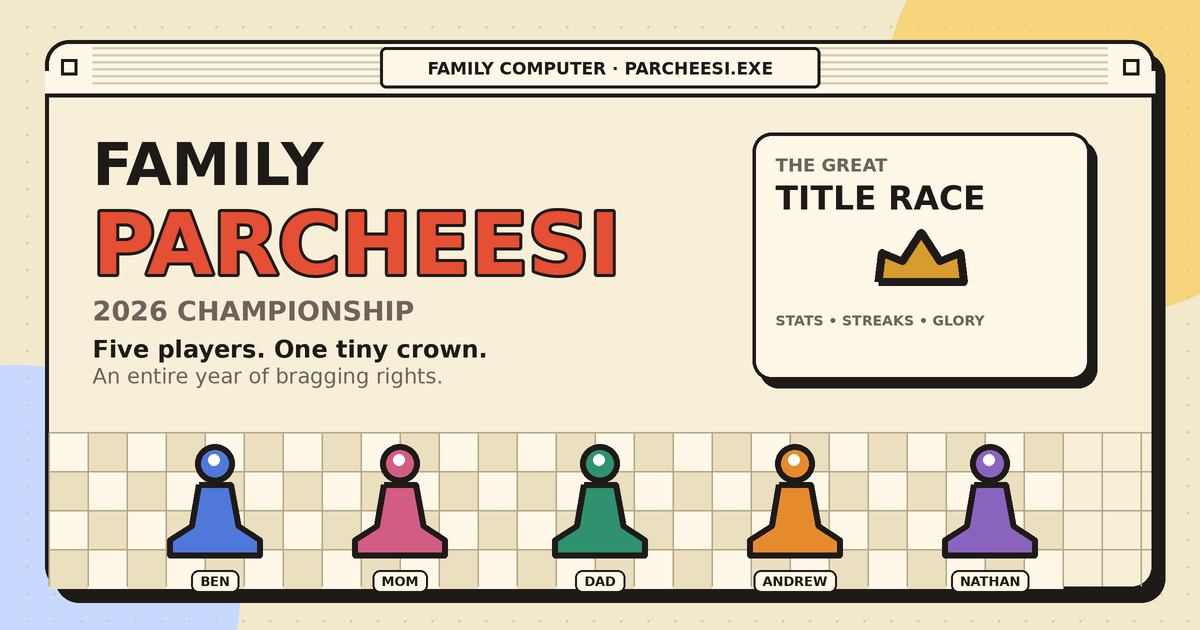
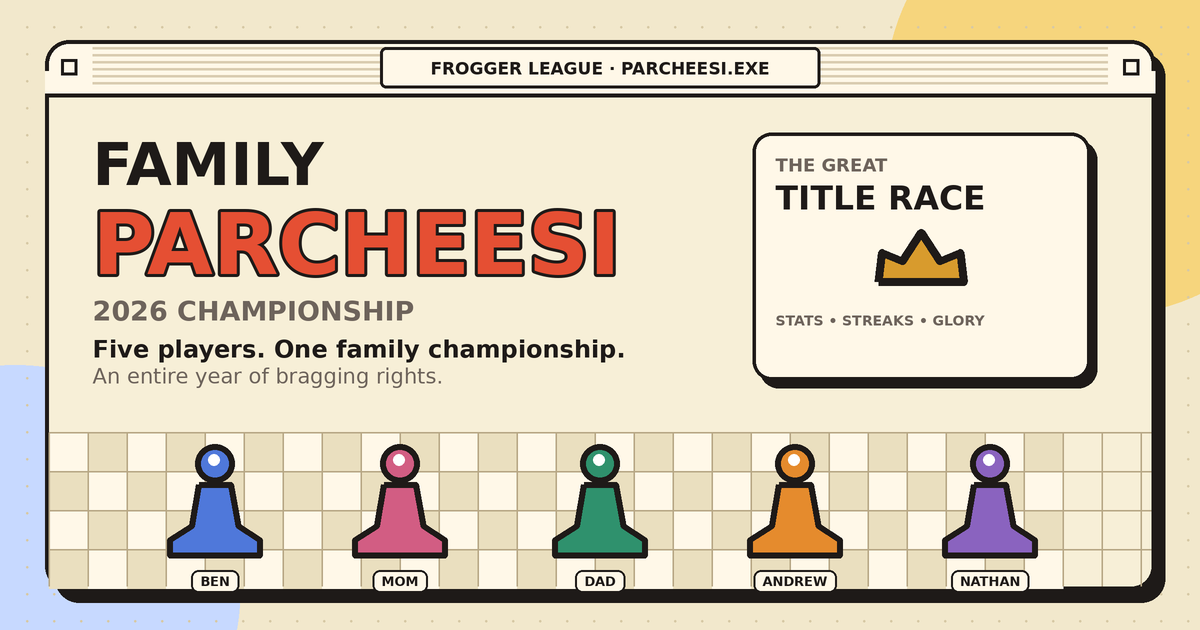
Refine championship voice and add Frogger League identity

Changed region(s): [[0.3392, 0.0905, 0.6475, 0.1206], [0.2775, 0.5429, 0.5242, 0.573]]

diff --git a/index.html b/index.html
@@ -20,7 +20,7 @@
   <meta property="og:locale" content="en_US">
   <meta property="og:url" content="https://llm-i-am.github.io/fam-parcheesi/">
   <meta property="og:title" content="Family Parcheesi · 2026 Championship">
-  <meta property="og:description" content="Five players. One tiny crown. An entire year of bragging rights.">
+  <meta property="og:description" content="Five players. One family championship. An entire year of bragging rights.">
   <meta property="og:image" content="https://llm-i-am.github.io/fam-parcheesi/assets/og-share.png">
   <meta property="og:image:secure_url" content="https://llm-i-am.github.io/fam-parcheesi/assets/og-share.png">
   <meta property="og:image:type" content="image/png">
@@ -30,7 +30,7 @@
 
   <meta name="twitter:card" content="summary_large_image">
   <meta name="twitter:title" content="Family Parcheesi · 2026 Championship">
-  <meta name="twitter:description" content="Five players. One tiny crown. An entire year of bragging rights.">
+  <meta name="twitter:description" content="Five players. One family championship. An entire year of bragging rights.">
   <meta name="twitter:image" content="https://llm-i-am.github.io/fam-parcheesi/assets/og-share.png">
   <meta name="twitter:image:alt" content="Family Parcheesi 2026 Championship with five colorful game pawns.">
 
@@ -59,14 +59,14 @@
     <header class="hero-window" aria-labelledby="pageTitle">
       <div class="window-bar" aria-hidden="true">
         <span class="window-dot"></span>
-        <span class="window-title">FAMILY COMPUTER · PARCHEESI.EXE</span>
+        <span class="window-title">FROGGER LEAGUE · PARCHEESI.EXE</span>
         <span class="window-dot"></span>
       </div>
 
       <div class="hero-content">
-        <div class="hero-kicker">🐅 2026 FAM PARCHEESI 🐪</div>
-        <h1 id="pageTitle">The family title race,<br><span>beautifully over-serious.</span></h1>
-        <p class="hero-copy">Five players. One tiny crown. An entire year of bragging rights.</p>
+        <div class="hero-kicker">🐸 FROGGER LEAGUE · 2026 SEASON</div>
+        <h1 id="pageTitle">The family title race,<br><span>in all its glory.</span></h1>
+        <p class="hero-copy">Five players. One family championship. An entire year of bragging rights.</p>
 
         <div class="hero-dashboard" aria-live="polite">
           <section class="leader-card" id="leaderCard" aria-label="Current championship leader">
@@ -75,7 +75,7 @@
               <div class="leader-pawn-wrap" aria-hidden="true"><span class="pawn pawn-xl" id="leaderPawn"></span></div>
               <div>
                 <div class="leader-name skeleton-text" id="leaderName">Loading…</div>
-                <div class="leader-detail skeleton-text" id="leaderDetail">Calculating the family drama</div>
+                <div class="leader-detail skeleton-text" id="leaderDetail">Calculating championship drama…</div>
               </div>
             </div>
             <div class="leader-ribbon" id="leaderRibbon">👑 crown status pending</div>
@@ -116,7 +116,7 @@
       <div class="section-heading">
         <div class="eyebrow">PARCHEESI STATS LAB™</div>
         <h2 id="raceTitle">The Great 2026 Parcheesi Race</h2>
-        <p>Watch the season wobble, lurch, and somehow become statistically meaningful.</p>
+        <p>Watch the season twist, turn, and tighten one game at a time.</p>
       </div>
 
       <div class="chart-window retro-panel">
@@ -210,8 +210,8 @@
     <footer class="site-footer">
       <div class="footer-mark" aria-hidden="true"><span class="pawn pawn-mini"></span></div>
       <div>
-        <strong>Family Parcheesi · 2026</strong>
-        <span>Handcrafted for excessive statistical analysis of a perfectly normal board game.</span>
+        <strong>Frogger Family Parcheesi League · 2026</strong>
+        <span>Keeping the official record of every win, streak, comeback, and lead change.</span>
       </div>
     </footer>
   </main>

diff --git a/app.js b/app.js
@@ -230,7 +230,7 @@
     $('#leaderDetail').textContent = leaders.length === 1
       ? `${leaders[0].wins} wins · ${formatPct(leaders[0].winPct)} of games played`
       : `${leaders.length}-way tie · ${formatPct(topPct)}`;
-    $('#leaderRibbon').textContent = leaders.length === 1 ? '👑 currently wearing the tiny crown' : '👑 shared tiny crown situation';
+    $('#leaderRibbon').textContent = leaders.length === 1 ? '👑 currently holds the crown' : '👑 the crown is currently shared';
 
     const leaderPawn = $('#leaderPawn');
     leaderPawn.dataset.player = leaders[0]?.player || 'Dad';
@@ -346,7 +346,7 @@
     $('#participationValue').textContent = allPresent ? 'Everyone' : (mostPresent.length >= 3 ? `${mostPresent.length} regulars` : joinNames(mostPresent));
     $('#participationNote').textContent = allPresent
       ? `Everyone has played all ${data.games.length} games.`
-      : `${joinNames(mostPresent)}: ${maxParticipation}/${data.games.length} games. Nathan: ${derived.totals.Nathan.gamesPlayed}/${data.games.length}.`;
+      : `${joinNames(mostPresent)} ${mostPresent.length === 1 ? 'leads' : 'lead'} attendance at ${maxParticipation}/${data.games.length} games.`;
 
     $('#leadChangeValue').textContent = String(derived.leadChanges);
     $('#leadChangeNote').textContent = derived.leadChanges === 1

diff --git a/scripts/generate_brand_assets.py b/scripts/generate_brand_assets.py
@@ -84,7 +84,7 @@ for yy in range(y0+16, y0+bar_h-14, 14):
     d.line([x0+95, yy, x1-95, yy], fill="#d9ccb0", width=5)
 chip = (760, y0+14, 1640, y0+96)
 d.rounded_rectangle(chip, radius=12, fill=C["paper2"], outline=C["ink"], width=6)
-txt = "FAMILY COMPUTER · PARCHEESI.EXE"
+txt = "FROGGER LEAGUE · PARCHEESI.EXE"
 bb = d.textbbox((0, 0), txt, font=font(34))
 d.text(((chip[0]+chip[2]-bb[2])/2, (chip[1]+chip[3]-bb[3])/2-2), txt, font=font(34), fill=C["ink"])
 for xx in [x0+48, x1-48]:
@@ -93,7 +93,7 @@ left = 185
 d.text((left, 260), "FAMILY", font=font(118), fill=C["ink"])
 d.text((left, 390), "PARCHEESI", font=font(170), fill=C["hot"], stroke_width=6, stroke_fill=C["ink"])
 d.text((left, 590), "2026 CHAMPIONSHIP", font=font(54), fill=C["muted"])
-d.text((left, 670), "Five players. One tiny crown.", font=font(48), fill=C["ink"])
+d.text((left, 670), "Five players. One family championship.", font=font(48), fill=C["ink"])
 d.text((left, 728), "An entire year of bragging rights.", font=font(42, False), fill=C["muted"])
 rx0, ry0, rx1, ry1 = 1505, 265, 2180, 760
 d.rounded_rectangle([rx0+14, ry0+16, rx1+14, ry1+16], radius=38, fill=C["ink"])
@@ -121,9 +121,9 @@ og.resize((1200, 630), Image.Resampling.LANCZOS).save(ASSETS / "og-share.png", o
 
 (ASSETS / "safari-pinned-tab.svg").write_text('''<svg xmlns="http://www.w3.org/2000/svg" viewBox="0 0 64 64"><path d="M32 7a10 10 0 1 1 0 20 10 10 0 0 1 0-20Zm-8 22h16l4 14 9 5v9H11v-9l9-5 4-14Z"/></svg>\n''')
 manifest = {
-    "name": "Family Parcheesi · 2026 Championship",
+    "name": "Frogger Family Parcheesi League · 2026 Championship",
     "short_name": "Parcheesi",
-    "description": "The family Parcheesi championship: standings, streaks, stats, and the great 2026 race.",
+    "description": "The Frogger Family Parcheesi League: 2026 standings, streaks, stats, and title race.",
     "start_url": "./", "scope": "./", "display": "standalone",
     "background_color": C["paper"], "theme_color": C["hot"],
     "icons": [

diff --git a/STATUS.md b/STATUS.md
@@ -10,6 +10,13 @@ The full v1 website is implemented and pushed to `main`.
 
 Browser/share identity is installed: multi-size favicons, Apple Touch icon, pinned-tab icon, web manifest, and 1200×630 Open Graph artwork for iMessage/social previews.
 
+
+## League identity and copy direction
+
+The family-world name is **Frogger Family Parcheesi League**, shortened to **Frogger League** in compact UI chrome. References stay deliberately sparse: the faux-Mac title bar, one hero season identifier, and the footer.
+
+Copy direction is now **earnest underneath, playful on top**: treat the championship as a real family institution, while letting the presentation be dramatic, mock-serious, and fun. Humor should come from the grand sports-broadcast treatment, not from diminishing the game or tradition.
+
 ## Architecture
 
 Static, dependency-free site:
